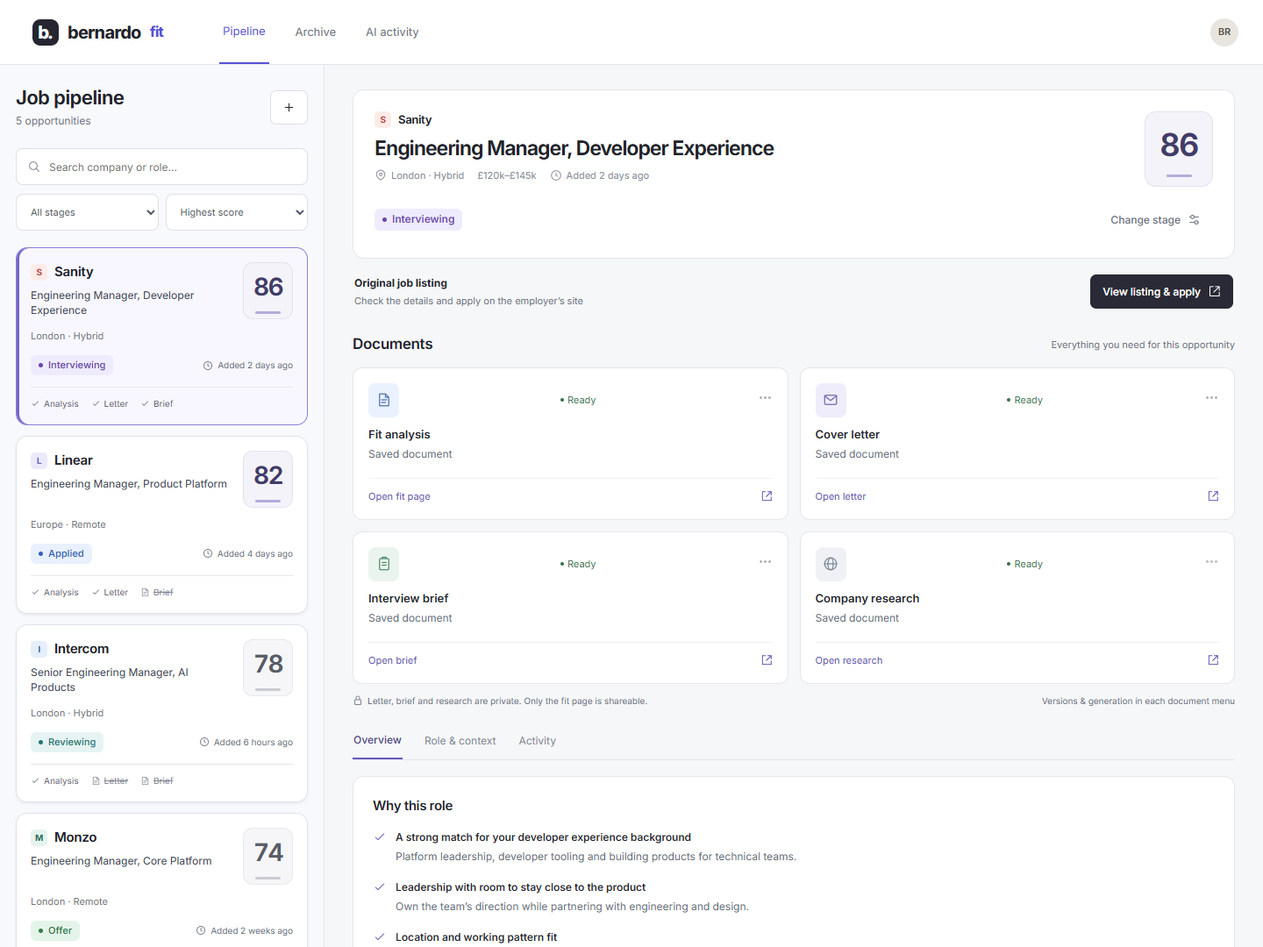
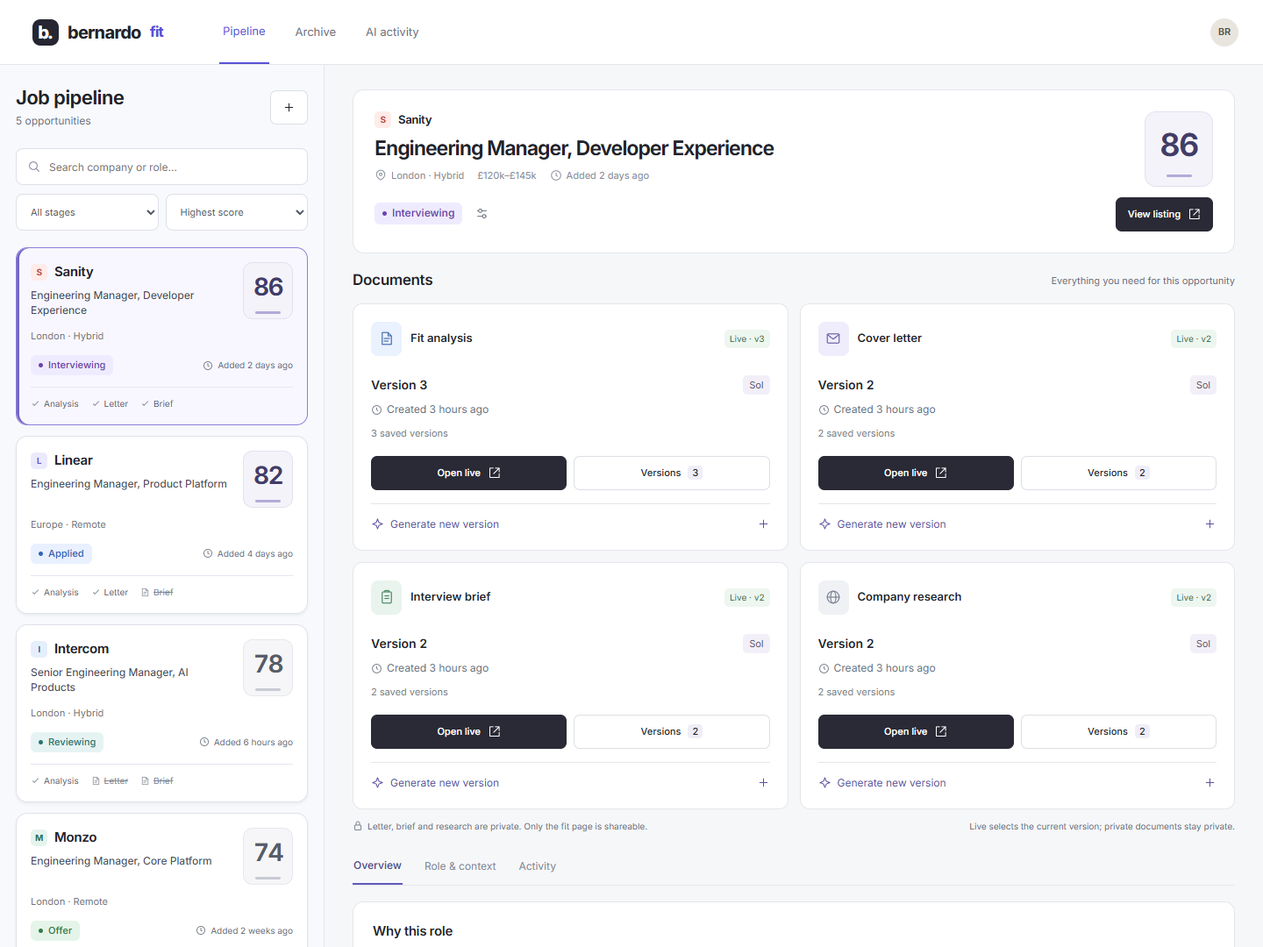
docs: prototype document generation and live version controls

diff --git a/docs/admin-ux/studio-mockups/index.html b/docs/admin-ux/studio-mockups/index.html
@@ -19,6 +19,10 @@
 .workspace-nav{height:74px;background:white;border-bottom:1px solid var(--line);display:flex;align-items:center;gap:55px;padding:0 28px}.workspace-nav nav{display:flex;gap:26px;height:100%;align-items:stretch}.workspace-nav nav button{border:0;background:none;color:var(--muted);padding:0 4px;font-size:13px}.workspace-nav nav button.active{color:var(--primary);border-bottom:2px solid var(--primary)}.workspace-nav>.avatar{margin-left:auto}.mail-layout{display:grid;grid-template-columns:370px minmax(0,1fr);height:calc(100vh - 118px)}.capture .mail-layout{height:calc(100vh - 74px)}.job-pane{padding:24px 18px;overflow:auto;border-right:1px solid var(--line);background:#f8f9fc}.inbox-heading{display:flex;justify-content:space-between;align-items:center;margin-bottom:22px}.inbox-heading h1{font-size:22px;letter-spacing:-.6px;margin-bottom:5px}.inbox-heading .sub{font-size:12px}.toolbar{display:block}.search{display:block;max-width:none}.filter-row{display:flex;gap:8px;margin-top:10px}.filter-row select{min-width:0;width:50%;padding-right:20px;font-size:11px}.job-list{gap:12px}.job-card{display:block;width:100%;text-align:left;padding:16px;border:1px solid #dfe2e9;color:var(--ink)}.job-card.selected{border-color:#8980d8;background:#f8f7ff;box-shadow:inset 3px 0 #7566c7}.card-top{display:flex;gap:14px;align-items:flex-start}.card-copy{min-width:0;flex:1}.company-line{font-size:15px;margin-bottom:6px}.role-name{font-size:12px;display:block}.card-top .score{width:57px;height:65px;font-size:28px;flex:none}.card-location{display:block;color:#707582;font-size:11px;margin-top:11px}.card-status{display:flex;align-items:center;justify-content:space-between;gap:8px;margin-top:13px}.card-status .added{font-size:10px}.card-status .status{font-size:11px}.card-docs{display:flex;gap:14px;border-top:1px solid #e5e6ef;padding-top:11px;margin-top:13px;font-size:10px;color:#5d6574}.card-docs>span{display:flex;gap:4px;align-items:center}.card-docs svg{width:11px;height:11px}.card-docs .unavailable{color:#858995;text-decoration:line-through}.reading-pane{padding:28px 32px;overflow:auto;min-width:0}.focus-back{display:none}.role-hero{position:relative;align-items:flex-start;gap:18px;padding:24px;margin-bottom:18px;flex-wrap:wrap}.role-hero .hero-text{order:0;flex:1;min-width:180px}.role-hero>.score{order:1;width:78px;height:86px;font-size:36px}.role-hero .hero-right{order:2;width:100%;display:flex;align-items:center;justify-content:space-between;margin:0}.role-hero h1{font-size:23px}.hero-meta{gap:9px 15px;font-size:11px}.listing-bar{display:flex;align-items:center;justify-content:space-between;gap:18px;margin-bottom:28px;padding:0 2px}.listing-bar strong{font-size:12px;display:block}.listing-bar span{font-size:11px;color:var(--muted);display:block;margin-top:3px}.listing-bar a{text-decoration:none}.doc-grid{grid-template-columns:repeat(2,minmax(0,1fr))}.document-card{min-height:156px}.document-top{margin-bottom:10px}.docs-foot{gap:18px;font-size:10px}.detail-grid{grid-template-columns:1fr}.prototype-note{font-size:10px}.reviewbar{letter-spacing:0}.mobile-wrap .mail-layout{display:block;height:auto}.mobile-wrap .workspace-nav{height:auto;padding:16px;gap:12px;flex-wrap:wrap}.mobile-wrap .workspace-nav nav{order:3;width:100%;height:38px}.mobile-wrap .job-pane{border:0;padding:22px 16px}.mobile-wrap .reading-pane{display:none}.mobile-wrap .toolbar{display:block}.mobile-wrap .job-card{padding:16px}.mobile-wrap .score{width:57px;height:65px}.mobile-wrap .brand{font-size:20px}
 @media(max-width:800px){.workspace-nav{height:auto;padding:15px 17px;gap:12px;flex-wrap:wrap}.workspace-nav nav{order:3;width:100%;height:36px}.workspace-nav .brand{font-size:20px;padding:0}.mail-layout,.capture .mail-layout{display:block;height:auto}.job-pane{padding:22px 17px;border:0}.reading-pane{display:none;padding:22px 17px}.show-role .job-pane{display:none}.show-role .reading-pane{display:block}.show-role .focus-back{display:flex}.toolbar{display:block}.job-card{padding:16px}.role-hero{padding:18px}.role-hero h1{font-size:20px}.role-hero>.score{width:60px;height:70px;font-size:30px}.role-hero .hero-text{min-width:170px}.listing-bar{align-items:flex-start;flex-direction:column;gap:12px}.listing-bar .btn{width:100%}.docs-foot{display:block}.docs-foot>span+span{margin-top:8px}.reviewbar{height:auto;min-height:44px;flex-wrap:wrap;padding:8px 16px;gap:8px}.section-head .sub{display:none}}
 .mobile-preview.show-role .mobile-wrap .job-pane{display:none}.mobile-preview.show-role .mobile-wrap .reading-pane{display:block;padding:20px 16px}.mobile-preview.show-role .focus-back{display:flex}
+
+.role-hero{display:grid;grid-template-columns:minmax(0,1fr) auto;gap:14px 24px}.role-hero .hero-text{grid-column:1;grid-row:1}.role-hero .hero-right{grid-column:1;grid-row:2;justify-content:flex-start;gap:5px}.score-actions{grid-column:2;grid-row:1 / span 2;display:flex;flex-direction:column;align-items:flex-end;gap:12px}.score-actions .score{width:78px;height:86px;font-size:36px}.listing-link{text-decoration:none;font-size:11px}.status-edit{width:34px;min-height:34px;padding:6px}.status-edit svg{width:15px;height:15px}.document-card{padding:20px;min-height:268px}.document-top{gap:12px;margin-bottom:22px}.document-identity{display:flex;align-items:center;gap:10px}.document-identity h3{margin:0}.document-state{font-size:10px;color:#38704b;white-space:nowrap;background:#edf6ef;padding:3px 6px;border-radius:5px}.version-summary{display:flex;justify-content:space-between;align-items:center;gap:10px}.version-summary strong{font-size:14px;font-weight:600}.version-summary span{font-size:11px;color:#5b536f;background:#f2eff8;border-radius:5px;padding:3px 7px}.document-age{font-size:12px;color:#69717e;display:flex;align-items:center;gap:5px;margin-top:8px}.document-age svg{width:13px;height:13px}.draft-note{font-size:11px;color:#6b50ac;margin:10px 0 17px}.draft-note.muted{color:#767c87}.document-actions{display:flex;gap:8px;margin-top:auto}.document-actions .btn{flex:1;font-size:11px}.document-actions .btn span{background:#efedf6;padding:0 5px;border-radius:4px}.new-version{background:none;border:0;border-top:1px solid var(--line);margin-top:15px;padding:14px 0 0;display:flex;align-items:center;gap:7px;color:#60519d;font-size:12px;width:100%;text-align:left}.new-version svg{width:15px;height:15px}.new-version svg:last-child{margin-left:auto}.document-empty{flex:1}.document-empty strong{font-size:13px;font-weight:500}.document-empty p{font-size:12px;color:#727985;line-height:1.7;margin:8px 0 20px}.generate-first{align-self:flex-start}.version-dialog{width:min(650px,calc(100vw - 28px));max-height:90vh;padding:26px}.dialog-heading{display:flex;justify-content:space-between;align-items:center;gap:15px}.dialog-heading h2{margin:0}.version-dialog .btn{float:none}.version-dialog .intro{font-size:12px;margin:12px 0 22px}.version-row{border:1px solid var(--line);border-radius:9px;margin:10px 0;padding:15px}.version-row.live{border-color:#a6c5ad;background:#f7fbf8}.version-row-head{display:flex;align-items:center;justify-content:space-between;font-size:13px;gap:10px}.version-row p{font-size:12px;margin:7px 0 12px}.version-row-actions{display:flex;gap:8px}.version-row .btn{font-size:11px;min-height:34px}.version-dialog label{display:block;font-size:12px;font-weight:600;margin:17px 0 7px}.version-dialog select,.version-dialog textarea{width:100%;padding:10px;border:1px solid #cfd3de;border-radius:7px;background:white;font:inherit}.version-dialog textarea{min-height:90px;resize:vertical}.dialog-actions{display:flex;justify-content:flex-end;gap:8px;border-top:1px solid var(--line);margin-top:23px;padding-top:18px}.preview-copy{background:#f7f8fb;border-radius:8px;padding:20px;line-height:1.8}.demo-note{font-size:11px!important;color:#777080!important}.version-notice{color:#39714d;font-size:12px;margin:15px 0}.doc-grid{align-items:stretch}
+@media(max-width:1100px){.document-top{align-items:flex-start;flex-direction:column}.document-actions{flex-wrap:wrap}.document-identity{gap:7px}}
+@media(max-width:800px){.doc-grid{grid-template-columns:1fr}.document-top{flex-direction:row;align-items:center}.role-hero{gap:14px 10px}.role-hero .hero-text{min-width:0}.role-hero h1{font-size:18px}.score-actions .score{width:61px;height:70px;font-size:30px}.listing-link{font-size:10px;padding:7px;gap:5px}.listing-link svg{width:12px}.document-actions .btn{min-height:40px}.document-state{font-size:10px}}
 </style>
 </head>
 <body>
@@ -44,8 +48,9 @@ function nav(){return '<aside class="sidebar">'+brand()+'<div><div class="side-s
 function chrome(){return '<header class="workspace-nav">'+brand()+'<nav aria-label="Workspace"><button class="active" data-view="pipeline">Pipeline</button><button data-notice="Archive">Archive</button><button data-notice="AI activity & usage">AI activity</button></nav><div class="avatar">BR</div></header><main class="mail-layout"><aside class="job-pane" aria-label="Jobs">'+pipeline()+'</aside><section class="reading-pane" aria-label="Selected job">'+roleView()+'</section></main>'}
 function jobCard(j){return '<button class="job-card '+(selected.id===j.id?'selected':'')+'" data-job="'+j.id+'" aria-pressed="'+(selected.id===j.id)+'"><span class="card-top"><span class="card-copy"><span class="company-line"><span class="monogram '+j.id+'">'+j.company[0]+'</span>'+j.company+'</span><span class="role-name">'+j.role+'</span></span><span class="score '+(j.score===null?'empty':j.score<80?'mid':'')+'" aria-label="'+(j.score===null?'Not scored':j.score+' out of 100 fit score')+'">'+(j.score??'—')+'</span></span><span class="card-location">'+j.location+'</span><span class="card-status">'+badge(j)+'<span class="added">'+icon('clock')+'Added '+j.age+'</span></span><span class="card-docs">'+['Analysis','Letter','Brief'].map((name,i)=>'<span class="'+(!j.docs[i]?'unavailable':'')+'">'+icon(j.docs[i]?'check':'file')+name+'</span>').join('')+'</span></button>'}
 function pipeline(){return '<div class="inbox-heading"><div><h1>Job pipeline</h1><p class="sub">5 opportunities</p></div><button class="btn" data-notice="Add opportunity" aria-label="Add opportunity">'+icon('plus')+'</button></div><div class="toolbar"><label class="search">'+icon('search')+'<input aria-label="Search jobs" placeholder="Search company or role…" id="search"></label><div class="filter-row"><select id="filter" aria-label="Filter by stage"><option value="all">All stages</option><option>Interviewing</option><option>Applied</option><option>Reviewing</option><option>Offer</option><option>New</option></select><select id="sort" aria-label="Sort roles"><option value="score">Highest score</option><option value="recent">Recently added</option></select></div></div><div class="job-list" id="job-list">'+jobs.map(jobCard).join('')+'</div><div class="list-foot"><span>5 opportunities · sorted by score</span></div>'}
-function docCard(title,type,color,meta,available=true){if(!available)return '<article class="document-card"><div class="document-top"><div class="file-icon '+color+'">'+icon(type)+'</div></div><h3>'+title+'</h3><small>Not generated yet</small><button class="doc-open" data-notice="Generate '+title+'">Generate '+icon('spark')+'</button></article>';return '<article class="document-card"><div class="document-top"><div class="file-icon '+color+'">'+icon(type)+'</div><span class="saved-dot">Ready</span><button class="more" data-notice="'+title+' options" aria-label="'+title+' options">'+icon('more')+'</button></div><h3>'+title+'</h3><small>'+meta+'</small><button class="doc-open" data-doc="'+title+'">Open '+(title==='Fit analysis'?'fit page':title==='Cover letter'?'letter':title==='Interview brief'?'brief':'research')+icon('external')+'</button></article>'}
-function roleView(){return '<button class="focus-back" data-view="pipeline">'+icon('back')+'Back to pipeline</button><div class="role-hero">'+score(selected)+'<div class="hero-text"><div class="company-line"><span class="monogram '+selected.id+'">'+selected.company[0]+'</span>'+selected.company+'</div><h1>'+selected.role+'</h1><div class="hero-meta"><span>'+icon('location')+selected.location+'</span><span>'+selected.salary+'</span><span>'+icon('clock')+'Added '+selected.age+'</span></div></div><div class="hero-right">'+badge(selected)+'<button class="btn quiet" data-notice="Change stage">Change stage '+icon('settings')+'</button></div></div><div class="listing-bar"><div><strong>Original job listing</strong><span>Check the details and apply on the employer’s site</span></div><a class="btn dark" href="https://example.com/jobs/'+selected.id+'" target="_blank" rel="noopener noreferrer" title="Illustrative URL — production uses the saved job posting URL">View listing & apply '+icon('external')+'</a></div><div class="section-head"><h2>Documents</h2><span class="sub">Everything you need for this opportunity</span></div><div class="doc-grid">'+docCard('Fit analysis','file','blue','Saved document',selected.docs[0])+docCard('Cover letter','letter','','Saved document',selected.docs[1])+docCard('Interview brief','brief','green','Saved document',selected.docs[2])+docCard('Company research','globe','gray','Saved document',selected.docs[2])+'</div><div class="docs-foot"><span>'+icon('lock')+'Letter, brief and research are private. Only the fit page is shareable.</span><span>Versions & generation in each document menu</span></div><nav class="role-tabs" aria-label="Role sections"><button class="active" data-panel="overview">Overview</button><button data-panel="context">Role & context</button><button data-panel="activity">Activity</button></nav><div id="role-content">'+overview()+'</div><p class="prototype-note">Design proposal · Illustrative roles, scores, documents and dates</p>'}
+function docCard(title,type,color,meta,available=true){const d=documentState(title,available),live=d.versions.find(v=>v.id===d.live),latest=d.versions[0];return '<article class="document-card"><div class="document-top"><div class="document-identity"><div class="file-icon '+color+'">'+icon(type)+'</div><h3>'+title+'</h3></div><span class="document-state">'+(live?'Live · v'+live.id:latest?'Draft ready':'Not created')+'</span></div>'+(latest?'<div class="version-summary"><strong>'+ (live?'Version '+live.id:'Version '+latest.id+' · Draft')+'</strong><span>'+esc((live||latest).model)+'</span></div><p class="document-age">'+icon('clock')+'Created '+(live||latest).age+'</p>'+(latest.id!==d.live?'<p class="draft-note">'+(live?'v'+latest.id+' draft ready to review':'Review and publish your first version')+'</p>':'<p class="draft-note muted">'+d.versions.length+' saved versions</p>')+'<div class="document-actions"><button class="btn dark" data-open-version="'+title+'">Open '+(live?'live':'draft')+icon('external')+'</button><button class="btn" data-history="'+title+'">Versions <span>'+d.versions.length+'</span></button></div><button class="new-version" data-generate="'+title+'">'+icon('spark')+'Generate new version '+icon('plus')+'</button>':'<div class="document-empty"><strong>Your '+title.toLowerCase()+' starts here</strong><p>Choose a model and generate the first version. Review it before making it live.</p></div><button class="btn dark generate-first" data-generate="'+title+'">'+icon('spark')+'Generate document</button>')+'</article>'}
+
+function roleView(){return '<button class="focus-back" data-view="pipeline">'+icon('back')+'Back to pipeline</button><div class="role-hero"><div class="score-actions">'+score(selected)+'<a class="btn dark listing-link" href="https://example.com/jobs/'+selected.id+'" target="_blank" rel="noopener noreferrer" title="Illustrative URL — production uses the saved job posting URL">View listing '+icon('external')+'</a></div><div class="hero-text"><div class="company-line"><span class="monogram '+selected.id+'">'+selected.company[0]+'</span>'+selected.company+'</div><h1>'+selected.role+'</h1><div class="hero-meta"><span>'+icon('location')+selected.location+'</span><span>'+selected.salary+'</span><span>'+icon('clock')+'Added '+selected.age+'</span></div></div><div class="hero-right">'+badge(selected)+'<button class="btn quiet status-edit" data-notice="Change stage" aria-label="Change status" title="Change status">'+icon('settings')+'</button></div></div><div class="section-head"><h2>Documents</h2><span class="sub">Everything you need for this opportunity</span></div><div class="doc-grid">'+docCard('Fit analysis','file','blue','Saved document',selected.docs[0])+docCard('Cover letter','letter','','Saved document',selected.docs[1])+docCard('Interview brief','brief','green','Saved document',selected.docs[2])+docCard('Company research','globe','gray','Saved document',selected.docs[2])+'</div><div class="docs-foot"><span>'+icon('lock')+'Letter, brief and research are private. Only the fit page is shareable.</span><span>Live selects the current version; private documents stay private.</span></div><nav class="role-tabs" aria-label="Role sections"><button class="active" data-panel="overview">Overview</button><button data-panel="context">Role & context</button><button data-panel="activity">Activity</button></nav><div id="role-content">'+overview()+'</div><p class="prototype-note">Design proposal · Illustrative roles, scores, documents and dates</p>'}
 function overview(){if(selected.id!=='sanity')return '<section class="panel"><h2>Role overview</h2><p class="sub">Assessment details and recorded activity for '+selected.company+' will appear here. The Sanity example shows the proposed populated layout.</p></section>';return '<div class="detail-grid"><section class="panel"><h2>Why this role</h2><div class="reason">'+icon('check')+'<div><strong>A strong match for your developer experience background</strong><p>Platform leadership, developer tooling and building products for technical teams.</p></div></div><div class="reason">'+icon('check')+'<div><strong>Leadership with room to stay close to the product</strong><p>Own the team’s direction while partnering with engineering and design.</p></div></div><div class="reason">'+icon('check')+'<div><strong>Location and working pattern fit</strong><p>London-based with a hybrid setup and a relevant compensation range.</p></div></div><div class="attention"><b>Worth exploring</b><br>Clarify the team’s remit and the balance between people management and hands-on work.</div></section><aside class="panel"><h2>Recent activity</h2><ol class="timeline"><li>Interview brief updated<small>3 hours ago</small></li><li>Moved to Interviewing<small>Yesterday</small></li><li>Cover letter generated<small>Yesterday</small></li><li>Added to your pipeline<small>2 days ago</small></li></ol><div class="next-step"><strong>Ready for the conversation</strong><p>Your brief and company research are ready to open.</p></div></aside></div>'}
 function show(view,push=true){currentView=view;document.body.classList.toggle('mobile-preview',view==='mobile');document.body.classList.toggle('show-role',view==='role');const html=chrome();app.innerHTML=view==='mobile'?'<div class="mobile-wrap">'+html+'</div>':html;if(push)history.replaceState(null,'','?view='+view);wireFilters();window.scrollTo(0,0)}
 function selectJob(id){selected=jobs.find(j=>j.id===id);document.querySelector('.reading-pane').innerHTML=roleView();document.querySelectorAll('[data-job]').forEach(b=>{const active=b.dataset.job===id;b.classList.toggle('selected',active);b.setAttribute('aria-pressed',active)});document.body.classList.add('show-role');document.querySelector('.reading-pane').scrollTop=0;}
@@ -54,6 +59,18 @@ function preview(title,content){const d=document.getElementById('preview');docum
 document.addEventListener('click',e=>{const button=e.target.closest('button');if(!button)return;if(button.dataset.view)show(button.dataset.view);if(button.dataset.job){selectJob(button.dataset.job)}if(button.dataset.score)preview('Assessment score', 'The large number is the existing fit score out of 100. The proposed design removes repeated “Fit” and tier labels, while keeping this accessible explanation.');if(button.dataset.doc)preview(button.dataset.doc,'This opens the saved document directly. In this design prototype it shows a placeholder; no generation or live data is involved.');if(button.dataset.notice)preview(button.dataset.notice,'This is a design preview. This control would use the existing application behavior when implemented.');if(button.dataset.filter){document.getElementById('filter').value=button.dataset.filter;document.getElementById('filter').dispatchEvent(new Event('change'));document.querySelectorAll('[data-filter]').forEach(b=>b.classList.toggle('active',b===button))}if(button.dataset.panel){document.querySelectorAll('[data-panel]').forEach(b=>b.classList.toggle('active',b===button));document.getElementById('role-content').innerHTML=button.dataset.panel==='overview'?overview():button.dataset.panel==='context'?'<section class="panel"><h2>Role & context</h2><p class="sub">The full description, posting, private notes and AI instructions belong here, in individually labelled editors.</p></section>':'<section class="panel"><h2>Activity & versions</h2><p class="sub">Available run outcomes, saved versions and recorded costs belong here. Exact history depends on the data the backend stores.</p></section>'}});
 document.getElementById('close-preview').onclick=()=>document.getElementById('preview').close();
 if(new URLSearchParams(location.search).has('capture'))document.body.classList.add('capture');
+
+const documentFixtures=new Map();
+let activeDocument='';
+function documentState(title,available=true){const key=selected.id+':'+title;if(!documentFixtures.has(key)){const count=title==='Fit analysis'?3:2;const versions=available?Array.from({length:count},(_,i)=>({id:count-i,model:i===0?'Sol':'Sonnet',age:i===0?'3 hours ago':i===1?'yesterday':'2 days ago'})):[];documentFixtures.set(key,{versions,live:versions.length?count:0});}return documentFixtures.get(key)}
+const manager=document.createElement('dialog');manager.className='version-dialog';manager.setAttribute('aria-label','Manage document versions');document.body.append(manager);
+function managerContent(title,body){manager.innerHTML='<div class="dialog-heading"><h2>'+title+'</h2><button class="btn quiet" data-close-manager aria-label="Close document manager">✕</button></div>'+body;if(!manager.open)manager.showModal();}
+function refreshDocuments(){document.querySelector('.reading-pane').innerHTML=roleView();}
+function historyView(title,notice=''){activeDocument=title;const d=documentState(title);managerContent(title+' · Versions','<p class="intro">Preview any saved version, then choose which one is live. '+(title==='Fit analysis'?'The live version is used by the shareable fit page.':'This document remains private.')+'</p>'+(notice?'<div class="version-notice" role="status">'+notice+'</div>':'')+d.versions.map(v=>'<div class="version-row '+(d.live===v.id?'live':'')+'"><div class="version-row-head"><strong>Version '+v.id+'</strong><span class="document-state">'+(d.live===v.id?'Live':v.id===d.versions[0].id?'Latest draft':'Saved')+'</span></div><p>'+v.model+' · Created '+v.age+'</p><div class="version-row-actions"><button class="btn" data-preview-version="'+v.id+'">Preview</button>'+(d.live!==v.id?'<button class="btn dark" data-publish-version="'+v.id+'">Publish live</button>':'<span class="saved-dot">Current version</span>')+'</div></div>').join('')+'<div class="dialog-actions"><button class="btn dark" data-generate="'+title+'">'+icon('spark')+'Generate new version</button></div><p class="demo-note">Interactive mockup: all version changes are local to this preview.</p>');}
+function generationView(title){activeDocument=title;const d=documentState(title);managerContent(d.versions.length?'Generate a new version':'Generate '+title,'<p class="intro">'+title+' · '+selected.company+'. Choose a model for this version. '+(d.live?'Your current live version stays in place until you publish the new one.':'The result will be saved as a draft for review.')+'</p><label for="generation-model">Model</label><select id="generation-model"><option>Sol</option><option>Astra</option><option>Sonnet</option><option>Opus</option></select><label for="generation-instructions">Instructions <span class="sub">(optional)</span></label><textarea id="generation-instructions" placeholder="What should this version improve?"></textarea><p class="demo-note">Design preview — no AI call or charge. Production uses configured models and generation cost confirmation.</p><div class="dialog-actions"><button class="btn" data-close-manager>Cancel</button><button class="btn dark" data-create-version>Generate draft '+icon('spark')+'</button></div>');}
+function versionPreview(id){const d=documentState(activeDocument),v=d.versions.find(v=>v.id===id);managerContent(activeDocument+' · v'+id,'<p class="intro">'+v.model+' · Created '+v.age+' · '+(d.live===id?'Live version':'Saved version')+'</p><div class="preview-copy"><strong>'+selected.company+' — '+activeDocument+'</strong><p>This is an illustrative document preview for version '+id+'. The application will show the actual saved content here so you can review it before publishing.</p></div><div class="dialog-actions"><button class="btn" data-history="'+activeDocument+'">Back to versions</button>'+(d.live!==id?'<button class="btn dark" data-publish-version="'+id+'">Publish live</button>':'')+'</div>');}
+document.addEventListener('click',e=>{const b=e.target.closest('button');if(!b)return;if(b.hasAttribute('data-close-manager'))manager.close();if(b.dataset.history)historyView(b.dataset.history);if(b.dataset.generate)generationView(b.dataset.generate);if(b.dataset.openVersion){activeDocument=b.dataset.openVersion;const d=documentState(activeDocument);versionPreview(d.live||d.versions[0].id);}if(b.dataset.previewVersion)versionPreview(Number(b.dataset.previewVersion));if(b.hasAttribute('data-create-version')){const d=documentState(activeDocument),model=document.getElementById('generation-model').value;d.versions.unshift({id:(d.versions[0]?.id||0)+1,model,age:'just now'});refreshDocuments();historyView(activeDocument,'New draft created. Preview it, then publish when ready.');}if(b.dataset.publishVersion){const d=documentState(activeDocument);d.live=Number(b.dataset.publishVersion);refreshDocuments();historyView(activeDocument,'Version '+d.live+' is now live in this preview.');}});
+
 show(currentView,false);
 </script>
 </body>

diff --git a/docs/admin-ux/studio-mockups/README.md b/docs/admin-ux/studio-mockups/README.md
@@ -13,9 +13,9 @@ Run `node docs/admin-ux/studio-mockups/preview.mjs --serve` and open http://127.
 
 ## Recommended direction
 
-Use an email-style two-pane workspace: top navigation, a left job index and a right reading pane, with independent scrolling. Keep search and filters intact when selecting another job. Each whole job card is a keyboard-accessible button with selected state; place the score on the right and omit the redundant View role link. Each card shows a large numeric score without repeated Fit or tier labels, a company and role, a named colored stage, a row of document availability indicators and relative time added. Preserve an accessible score description. Missing documents remain visibly unavailable in the list; generation belongs to an explicit action in the focused role page.
+Use an email-style two-pane workspace: top navigation, a left job index and a right reading pane, with independent scrolling. Keep search and filters intact when selecting another job. Each whole job card is a keyboard-accessible button with selected state; place the score on the right and omit the redundant View role link. Each card shows a large numeric score without repeated Fit or tier labels, a company and role, a named colored stage, a row of document availability indicators and relative time added. Preserve an accessible score description. Missing documents remain visibly unavailable in the list; generation belongs to an explicit action in each document card.
 
-Selecting a job updates the adjacent reading pane. A prominent View listing & apply link opens the saved original posting in a new tab. Prototype links use explicit example.com placeholders because the roles are illustrative; production must use the real saved source URL and show an unavailable state when absent. Documents come first, ahead of overview and context sections. Keep the fit page's shareability distinct from private letter, brief and research documents. Opening an existing document never generates another one.
+Selecting a job updates the adjacent reading pane. A View listing link sits immediately below the fit score and opens the saved original posting in a new tab. An icon-only status control sits beside the status badge, with an accessible name and tooltip. Prototype links use explicit example.com placeholders because the roles are illustrative; production must use the real saved source URL and show an unavailable state when absent. Documents come first, ahead of overview and context sections. Keep the fit page's shareability distinct from private letter, brief and research documents. Opening an existing document never generates another one.
 
 Stage colors: violet Interviewing, blue Applied, teal Reviewing, green Offer, slate New, rose Rejected. Retain stage names and accessible contrast: color must not carry meaning alone. Map these variants to the application's existing status taxonomy when implementing.
 
@@ -49,3 +49,17 @@ Production work should use existing shadcn components, verify keyboard focus and
 ## Verification
 
 `preview.mjs` renders four screenshots and checks search, filtering, keyboard/card selection, preserved browsing controls, listing link targets, mobile back navigation, document dialogs, Escape dismissal, page errors and horizontal overflow at desktop/mobile sizes. Set `PLAYWRIGHT_CHROMIUM_EXECUTABLE` to a local Chrome executable if necessary. No full application test suite is required for these isolated design artifacts.
+
+## Document lifecycle revision
+
+Each existing document card displays its live version number, model and relative creation time. Open live opens that exact version. Versions opens a compact version picker with each saved version's model, creation time, preview action and Publish live action. Private documents remain private: live means the selected current version, not public visibility.
+
+Generate new version opens a model selector and optional instructions. A new result is a draft; the live version stays in place until explicitly published. Empty cards have a prominent Generate document action leading to the same flow. Model labels mirror the application's current configured choices; the mockup makes no external AI calls and charges nothing. Production should preserve existing generation cost confirmation and load actual model availability, document content, version IDs and dates from the backend.
+
+The interactive mockup supports generating fixture drafts with different models, previewing saved versions, selecting an older live version and publishing a first version. Changes last only for the current page session.
+
+- [Version picker](05-document-versions.png)
+- [Model selection and generation](06-generate-version.png)
+- [Missing documents](07-missing-documents.png)
+
+Implement these compositions with shadcn Card, Badge, Button, Dialog, Select, Label, Textarea and Tooltip. Keep the primary actions visible rather than placing the version workflow in an overflow menu. On mobile, use one document card per row for readable metadata and comfortable controls.
